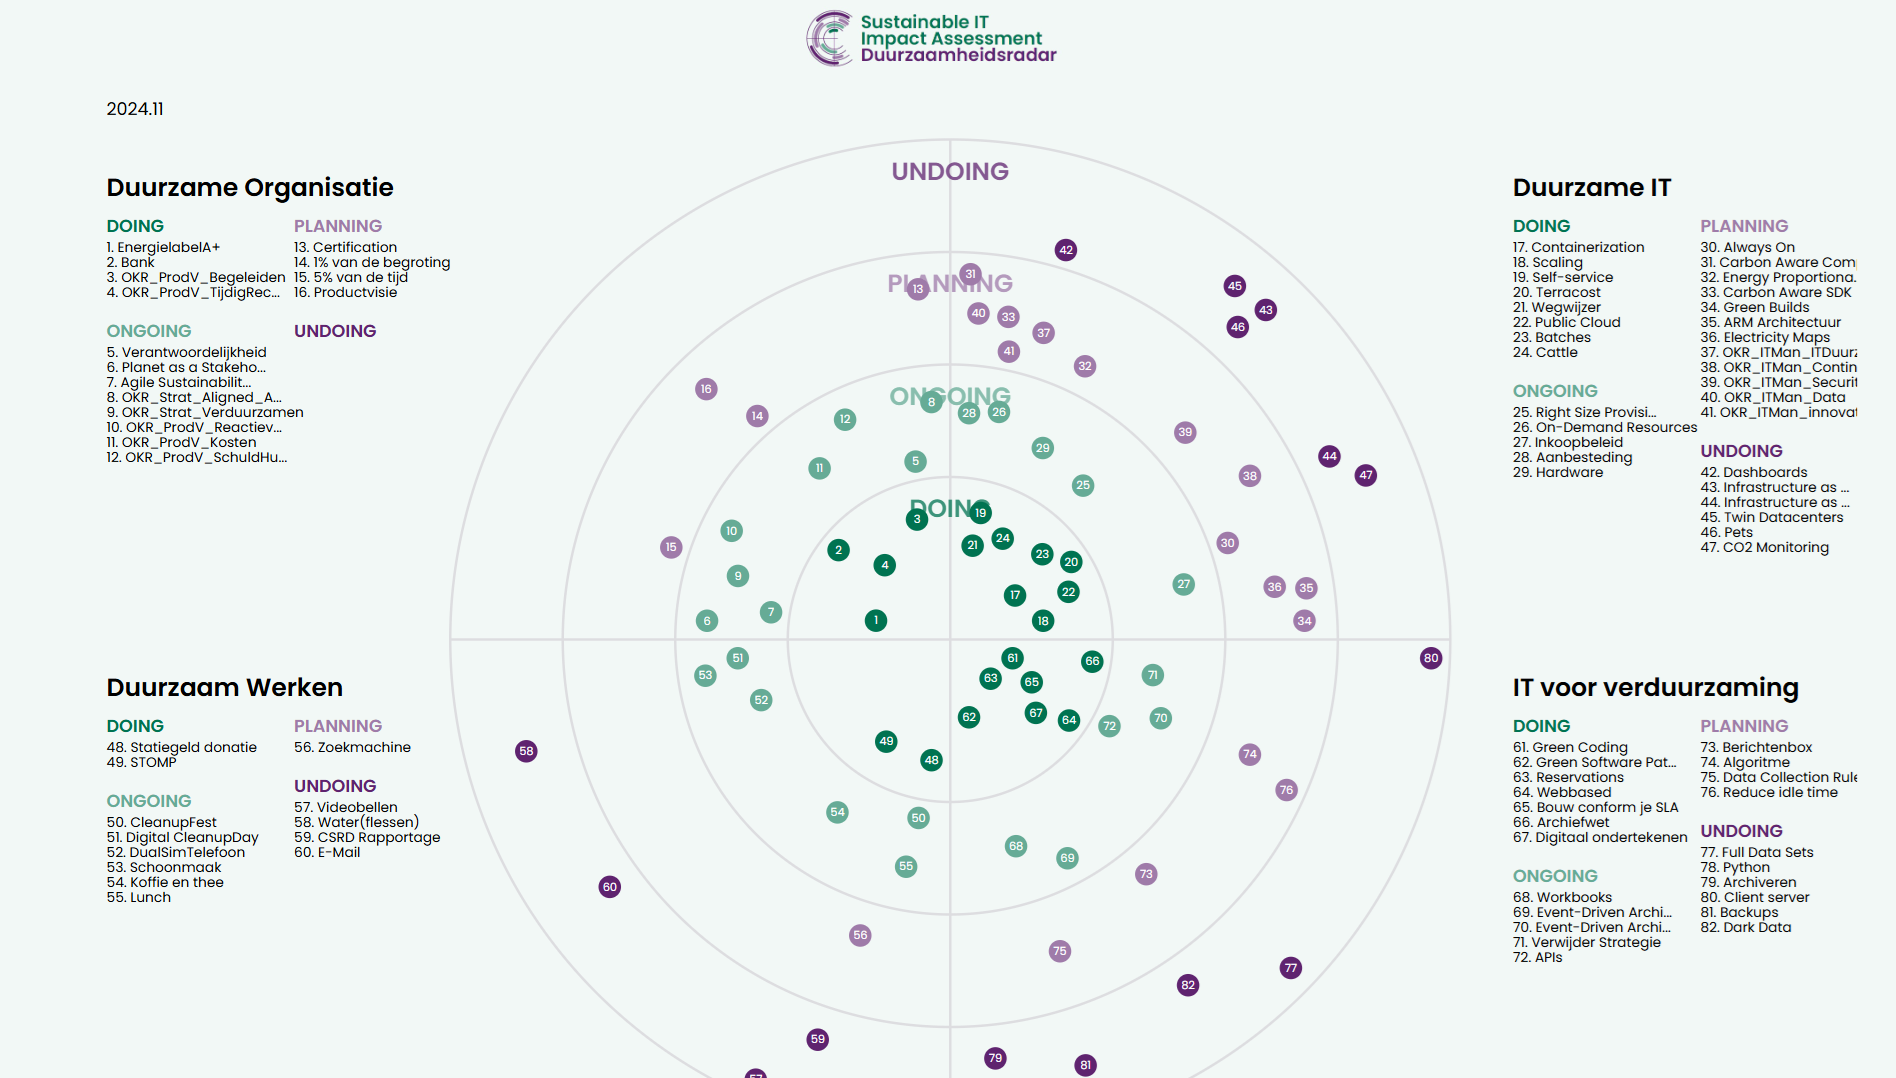
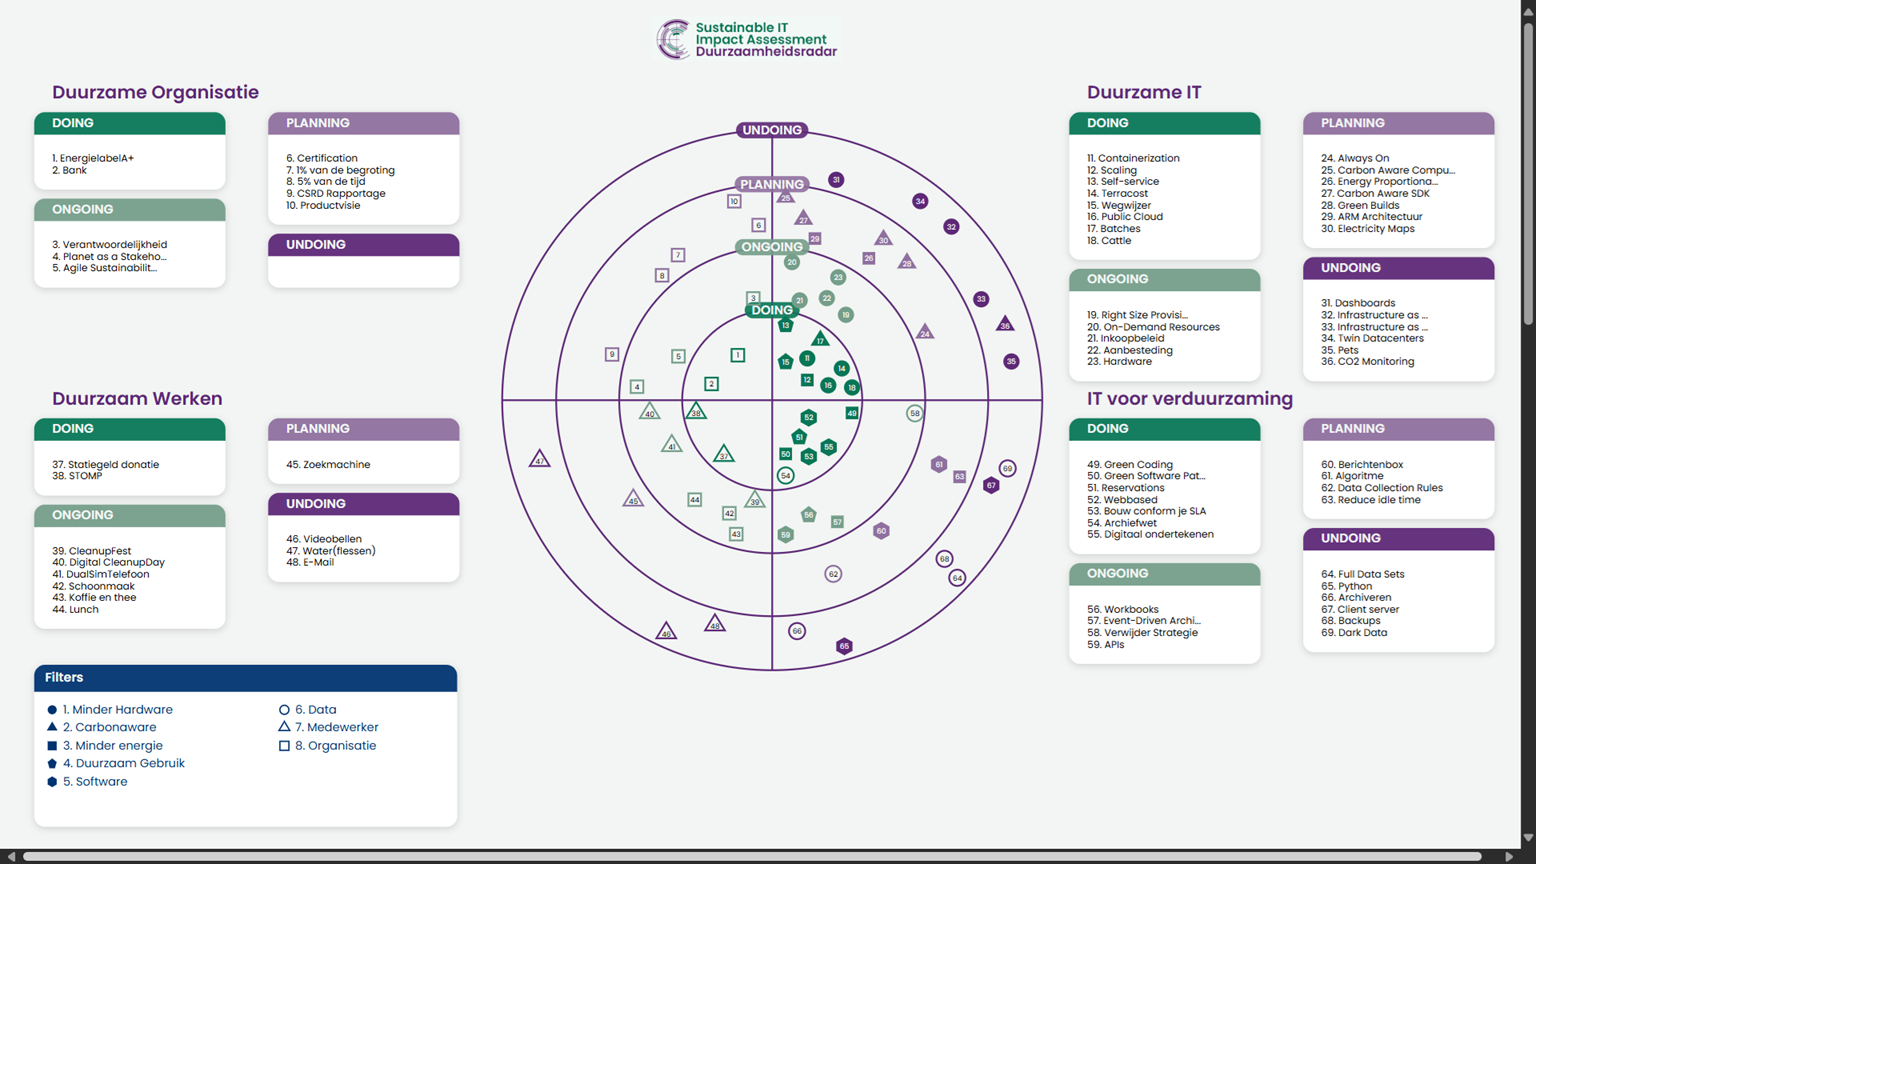
Aanpassing itemlabels (4. Duurzaam Gebruik) Weghalen categorie 'lunch': hoort bij organisatie Toevoegen hexagon-vorm en weghalen stervorm in legenda en blips Aanpassen legenda en blips vormen in lijn met voorstel designer Verkleinen tekst in de blips.

diff --git a/radar.js b/radar.js
@@ -145,15 +145,29 @@ function radar_visualization(config) {
 
     function definieerGroepVormen(config) {
   // Handmatige mapping van groep naar statusvormen 1 t/m 12
+          //case 1:  filled circle            
+          //case 2:  filled triangle 
+          //case 3:  filled square 
+          //case 4:  filled ellipse 
+          //case 5:  filled pentagon  
+          //case 6:  filled hexagon  
+          //case 7:  filled star  
+          //case 8:  open circle  
+          //case 9:  open triangle  
+          //case 10: open square  
+          //case 11: open ellipse  
+          //case 12: open pentagon  
+          //case 13: open hexagon  
+          //case 14: open star
       const vasteGroepvormen = {
         "1. Minder Hardware": 1,        // filled circle
-        "2. Carbonaware": 7,         // open circle
-        "3. Minder Energie": 3,           // filled square
-        "4. Minder Gebruik": 9,      // open square
-        "5. Software": 5,  // filled pentagon
-        "6. Data": 11,     // open pentagon   
-        "7. Medewerker": 2,     // filled triangle
-        "8. Organisatie": 8     // open triangle
+        "2. Carbonaware": 2,            // closed circle
+        "3. Minder Energie": 3,        // filled square
+        "4. Duurzaam Gebruik": 5,      // filled pentagon
+        "5. Software": 6,              // filled hexagon
+        "6. Data": 8,           // open circle   
+        "7. Medewerker": 9,     // open triangle
+        "8. Organisatie": 10     // open square
         //"9. Processen": 
         //"10. Communicatie": ,         // filled ellipse
         //"11. Security": 6, // filled star
@@ -428,11 +442,21 @@ function radar_visualization(config) {
 
       if (groupFilter === null || !isMatch) {
         // Reset shape style
-        shape
-          .attr("transform", null)
-          .style("fill", d.color)
-          .style("stroke", "none")
-          .style("stroke-width", 0);
+        shape.attr("transform", null)
+        if (d.status >= 8) {
+          // open vormen herstellen
+          shape
+            .style("fill", "none")
+            .style("stroke", d.color)
+            .style("stroke-width", 2);
+        } else {
+          // dichte vormen herstellen
+          shape
+            .style("fill", d.color)
+            .style("stroke", "none")
+            .style("stroke-width", 0);
+        }
+          
 
         // Reset text
         text
@@ -624,14 +648,14 @@ function radar_visualization(config) {
       .style("fill", config.colors.text)
 
     // footer
-    radar.append("text")
-      .attr("transform", translate(footer_offset.x, footer_offset.y))
-      .text("■ nieuw ▲ verplaatst")
-      .attr("xml:space", "preserve")
-      //.style("font-family", "Raleway")
-      .attr("class", "title")
-      .style("font-size", "10px")
-      .style("fill", config.colors.text);
+    //radar.append("text")
+    //  .attr("transform", translate(footer_offset.x, footer_offset.y))
+    //  .text("■ nieuw ▲ verplaatst")
+    //  .attr("xml:space", "preserve")
+    //  //.style("font-family", "Raleway")
+    //  .attr("class", "title")
+    //  .style("font-size", "10px")
+    //  .style("fill", config.colors.text);
 
     // legend
     var legend = radar.append("g");
@@ -948,47 +972,59 @@ function radar_visualization(config) {
               .attr("d", "M 0,-6 L 5,-2 L 3,5 L -3,5 L -5,-2 Z")
               .attr("fill", color);
             break;
-          case 6: // filled star
+          case 6: // filled hexagon
+            parent.append("path")
+              .attr("d", "M 0,-6 L 5,-3 L 5,3 L 0,6 L -5,3 L -5,-3 Z")
+              .attr("fill", color);
+            break;  
+          case 7: // filled star
             parent.append("path")
               .attr("d", "M0,-6 L2,-2 L6,-2 L3,1 L4,5 L0,3 L-4,5 L-3,1 L-6,-2 L-2,-2 Z")
               .attr("fill", color);
             break;
-          case 7: // open circle
+          case 8: // open circle
             parent.append("circle")
               .attr("r", 5)
               .attr("fill", "none")
               .attr("stroke", color)
               .attr("stroke-width", strokeWidth);
             break;
-          case 8: // open triangle
+          case 9: // open triangle
             parent.append("path")
               .attr("d", "M -6,3 6,3 0,-7 z")
               .attr("fill", "none")
               .attr("stroke", color)
               .attr("stroke-width", strokeWidth);
             break;
-          case 9: // open square
+          case 10: // open square
             parent.append("rect")
               .attr("x", -5).attr("y", -5).attr("width", 10).attr("height", 10)
               .attr("fill", "none")
               .attr("stroke", color)
               .attr("stroke-width", strokeWidth);
             break;
-          case 10: // open ellipse
+          case 11: // open ellipse
             parent.append("ellipse")
               .attr("rx", 6).attr("ry", 4)
               .attr("fill", "none")
               .attr("stroke", color)
               .attr("stroke-width", strokeWidth);
             break;
-          case 11: // open pentagon
+          case 12: // open pentagon
             parent.append("path")
               .attr("d", "M 0,-6 L 5,-2 L 3,5 L -3,5 L -5,-2 Z")
               .attr("fill", "none")
               .attr("stroke", color)
               .attr("stroke-width", strokeWidth);
             break;
-          case 12: // open star
+          case 13: // open hexagon
+            parent.append("path")
+              .attr("d", "M 0,-6 L 5,-3 L 5,3 L 0,6 L -5,3 L -5,-3 Z")
+              .attr("fill", "none")
+              .attr("stroke", color)
+              .attr("stroke-width", 1.5);
+            break;
+          case 14: // open star
             parent.append("path")
               .attr("d", "M0,-6 L2,-2 L6,-2 L3,1 L4,5 L0,3 L-4,5 L-3,1 L-6,-2 L-2,-2 Z")
               .attr("fill", "none")
@@ -1103,8 +1139,8 @@ function radar_visualization(config) {
     // d.status = config.uniqueGroups.indexOf(d.group) + 1;
     d.status = config.groupToStatus[d.group] || 1;
 
-    // Tekstkleur aanpassen bij open vormen (vanaf status 7)
-    if (d.status >= 7) {
+    // Tekstkleur aanpassen bij open vormen (vanaf status 8)
+    if (d.status >= 8) {
       d.textColor = (d.textColor === "white") ? "black" : "white";
     }
 
@@ -1141,23 +1177,23 @@ function radar_visualization(config) {
       blip.append("path")
         .attr("d", "M 0,-10 L 9,-3 L 6,8 L -6,8 L -9,-3 Z")
         .attr("fill", d.color);
-    } else if (d.status == 6) { // filled star
+    } else if (d.status == 6) { // filled hexagon
       blip.append("path")
-        .attr("d", "M0,-10 L3,-3 L10,-3 L5,2 L7,9 L0,5 L-7,9 L-5,2 L-10,-3 L-3,-3 Z")
+        .attr("d", "M 0,-10 L 9,-5 L 9,5 L 0,10 L -9,5 L -9,-5 Z")
         .attr("fill", d.color);
-    } else if (d.status == 7) { // open circle
+    } else if (d.status == 8) { // open circle
       blip.append("circle")
         .attr("r", 9)
         .attr("fill", "none")
         .attr("stroke", d.color)
         .attr("stroke-width", 2);
-    } else if (d.status == 8) { // open triangle
+    } else if (d.status == 9) { // open triangle
       blip.append("path")
         .attr("d", "M -11,5 11,5 0,-13 z")
         .attr("fill", "none")
         .attr("stroke", d.color)
         .attr("stroke-width", 2);
-    } else if (d.status == 9) { // open square
+    } else if (d.status == 10) { // open square
       blip.append("rect")
         .attr("x", -7)
         .attr("y", -7)
@@ -1166,20 +1202,20 @@ function radar_visualization(config) {
         .attr("fill", "none")
         .attr("stroke", d.color)
         .attr("stroke-width", 2);        
-    } else if (d.status == 10) { // open ellipse
+    } else if (d.status == 11) { // open ellipse
       blip.append("ellipse")
         .attr("rx", 9)
         .attr("ry", 6)
         .attr("fill", "none")
         .attr("stroke", d.color)
         .attr("stroke-width", 2);
-    } else if (d.status == 11) { // open pentagon
+    } else if (d.status == 12) { // open pentagon
       blip.append("path")
         .attr("d", "M 0,-10 L 9,-3 L 6,8 L -6,8 L -9,-3 Z")
         .attr("fill", "none")
         .attr("stroke", d.color)
         .attr("stroke-width", 2);
-    } else if (d.status == 12) { // open star
+    } else if (d.status == 13) { // open star
       blip.append("path")
         .attr("d", "M0,-10 L3,-3 L10,-3 L5,2 L7,9 L0,5 L-7,9 L-5,2 L-10,-3 L-3,-3 Z")
         .attr("fill", "none")
@@ -1201,7 +1237,7 @@ function radar_visualization(config) {
         .style("fill", d.textColor)
         //.style("font-family", "Raleway")//
         .attr("class", "blip-text")
-        .style("font-size", function(d) { return blip_text.length > 2 ? "8px" : "9px"; })
+        .style("font-size", function(d) { return blip_text.length > 2 ? "7px" : "8px"; }) //8 9
         .style("pointer-events", "none")
         .style("user-select", "none");
     }
